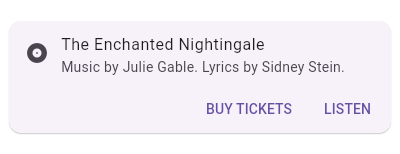
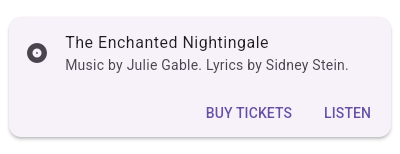
Update `Card` diagram to replace deprecated `ButtonBar` (#248)
fixes [Migrate ButtonBar use in assets-for-api-docs/packages/diagrams/lib/src/card.dart](https://github.com/flutter/flutter/issues/148709)

diff --git a/packages/diagrams/lib/src/card.dart b/packages/diagrams/lib/src/card.dart
@@ -8,8 +8,6 @@ import 'package:flutter/material.dart';
 
 import 'diagram_step.dart';
 
-// ignore_for_file: deprecated_member_use, https://github.com/flutter/flutter/issues/148709
-
 class CardDiagram extends StatelessWidget with DiagramMetadata {
   const CardDiagram({super.key});
 
@@ -35,17 +33,23 @@ class CardDiagram extends StatelessWidget with DiagramMetadata {
                 title: Text('The Enchanted Nightingale'),
                 subtitle: Text('Music by Julie Gable. Lyrics by Sidney Stein.'),
               ),
-              ButtonBar(
-                children: <Widget>[
-                  TextButton(
-                    child: const Text('BUY TICKETS'),
-                    onPressed: () {},
-                  ),
-                  TextButton(
-                    child: const Text('LISTEN'),
-                    onPressed: () {},
-                  ),
-                ],
+              Padding(
+                padding: const EdgeInsets.symmetric(horizontal: 8.0),
+                child: OverflowBar(
+                  alignment: MainAxisAlignment.end,
+                  spacing: 8.0,
+                  overflowSpacing: 8.0,
+                  children: <Widget>[
+                    TextButton(
+                      child: const Text('BUY TICKETS'),
+                      onPressed: () {},
+                    ),
+                    TextButton(
+                      child: const Text('LISTEN'),
+                      onPressed: () {},
+                    ),
+                  ],
+                ),
               ),
             ],
           ),
